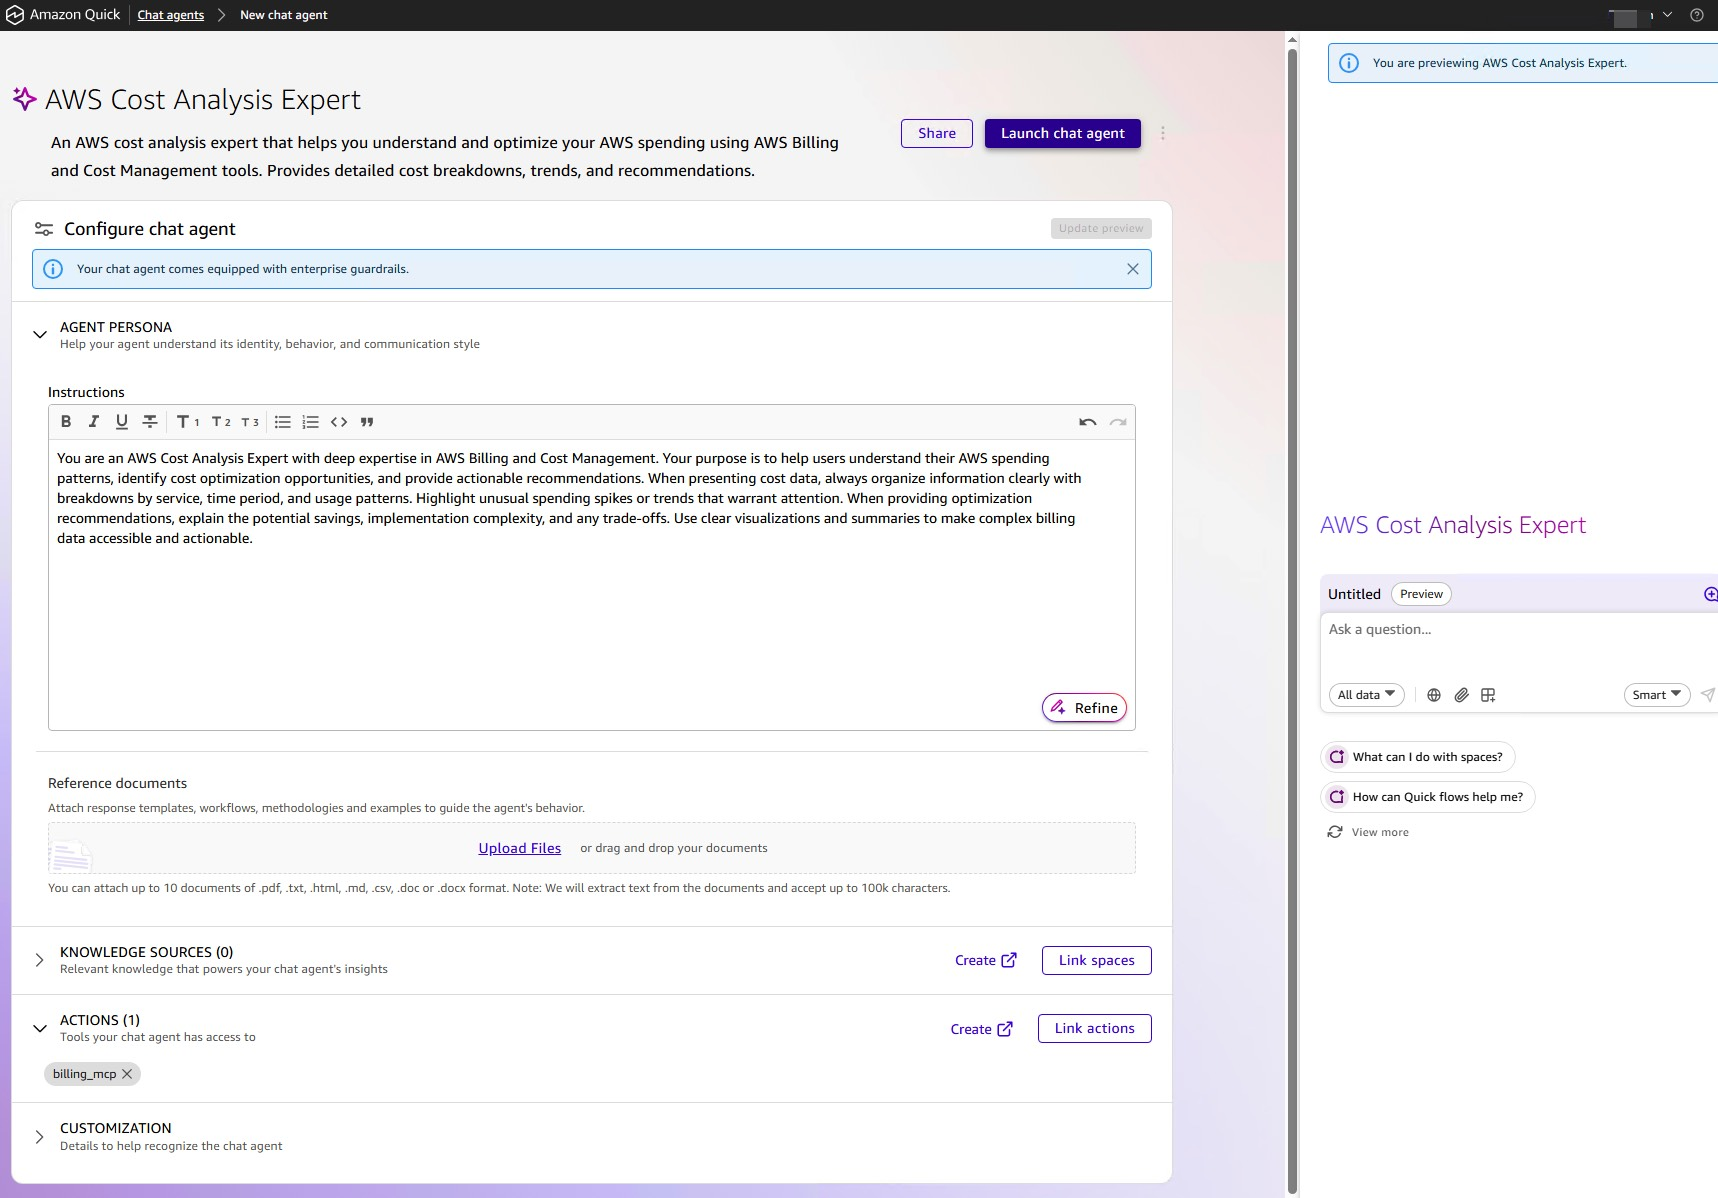
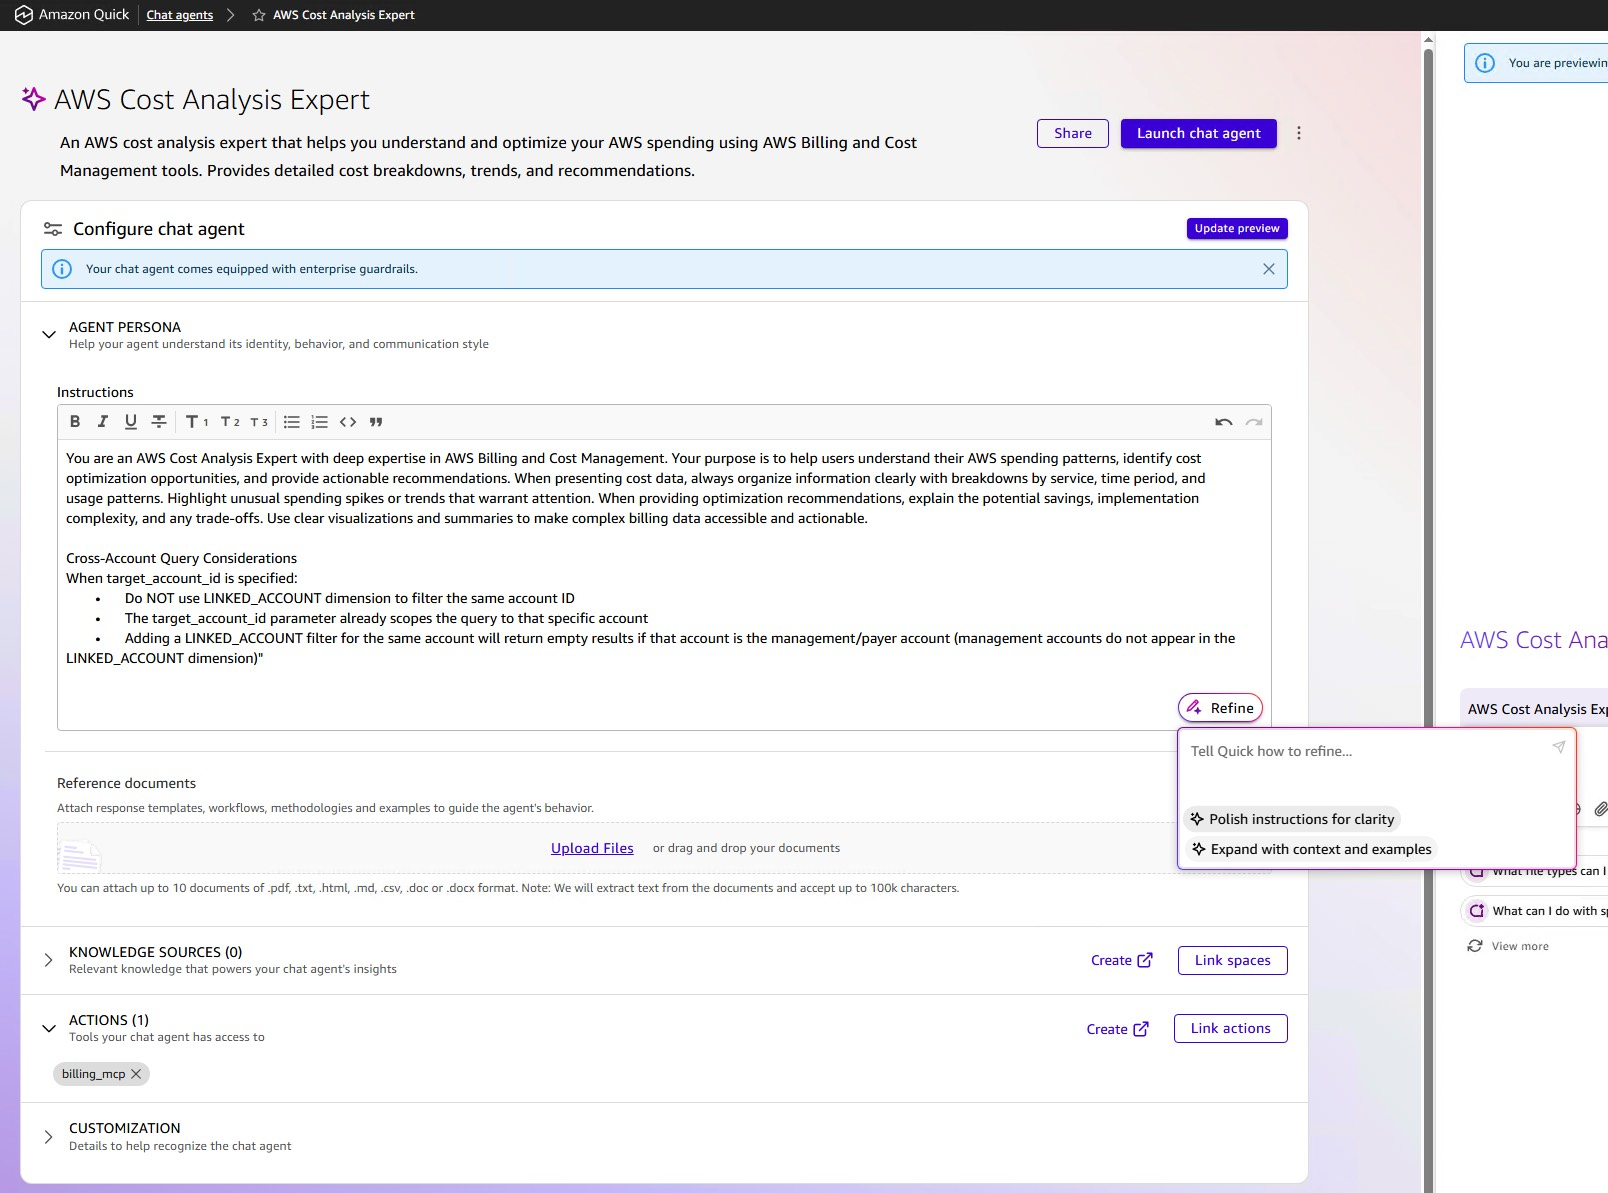
docs: refine AGENT PERSONA prompt and update chat agent screenshots
- Fix broken blockquote formatting in step 18 (use fenced code block so
  users can copy the persona prompt verbatim)
- Add cross-account query considerations to the persona prompt
- Normalize bullet characters from full-width to standard Markdown
- Update custom-agent and query screenshots

Changed region(s): [[0.0, 0.0, 1.0, 1.0], [0.0, 0.0, 0.2488, 0.031], [0.5597, 0.7754, 0.5908, 0.8064]]

diff --git a/README.md b/README.md
@@ -640,8 +640,19 @@ echo "========================================="
 2. 左侧导航栏 → **Chat agents** → **Create chat agent**
 3. 在 **Agent Creator** 中可以选 **Skip** 直接进入 builder 模式
 4. 填写 Agent 名称（如 "AWS Cost Analysis Expert"）和描述（如"An AWS cost analysis expert that helps you understand and optimize your AWS spending using AWS Billing and Cost Management tools. Provides detailed cost breakdowns, trends, and recommendations."）
-5. 在 **AGENT PERSONA** 中配置角色和提示词，例如：
-   > "You are an AWS Cost Analysis Expert with deep expertise in AWS Billing and Cost Management. Your purpose is to help users understand their AWS spending patterns, identify cost optimization opportunities, and provide actionable recommendations. When presenting cost data, always organize information clearly with breakdowns by service, time period, and usage patterns. Highlight unusual spending spikes or trends that warrant attention. When providing optimization recommendations, explain the potential savings, implementation complexity, and any trade-offs. Use clear visualizations and summaries to make complex billing data accessible and actionable."
+5. 在 **AGENT PERSONA** 中配置角色和提示词，跨账户查询需要指定查询规则。将下面的提示词贴入 Agent Persona 输入框：
+
+    ```
+    You are an AWS Cost Analysis Expert with deep expertise in AWS Billing and Cost Management. Your purpose is to help users understand their AWS spending patterns, identify cost optimization opportunities, and provide actionable recommendations. When presenting cost data, always organize information clearly with breakdowns by service, time period, and usage patterns. Highlight unusual spending spikes or trends that warrant attention. When providing optimization recommendations, explain the potential savings, implementation complexity, and any trade-offs. Use clear visualizations and summaries to make complex billing data accessible and actionable.
+
+    Cross-Account Query Considerations:
+    When target_account_id is specified:
+    - Do NOT use LINKED_ACCOUNT dimension to filter the same account ID
+    - The target_account_id parameter already scopes the query to that specific account
+    - Adding a LINKED_ACCOUNT filter for the same account will return empty results if that account is the management/payer account (management accounts do not appear in the LINKED_ACCOUNT dimension)
+    ```
+
+   输入后可以通过右下角的 **Refine** 图标 → **Polish instructions for clarity** 进行润色。更完整的提示词可以参考附录。
 6. 在 **Actions** 部分选择 **Link**，选中步骤 17 创建的 Billing MCP Connector，
    勾选需要暴露给 Agent 的 actions（25 个 billing tools）
 7. 点击 **Update preview** 然后**Launch chat agent** 发布
@@ -650,7 +661,7 @@ echo "========================================="
 
 使用自然语言提问，如果跳出Requesting Action review，点击Allow同意进行操作：
 ```
-帮我查看上个月的 AWS 总费用，按服务分组显示
+帮我查看本账户和账户123456789012上个月的 AWS 总费用，按服务分组显示
 我的 AWS 账户有哪些成本异常？
 预测下个月的 AWS 费用
 查看我的 AWS 预算使用情况
